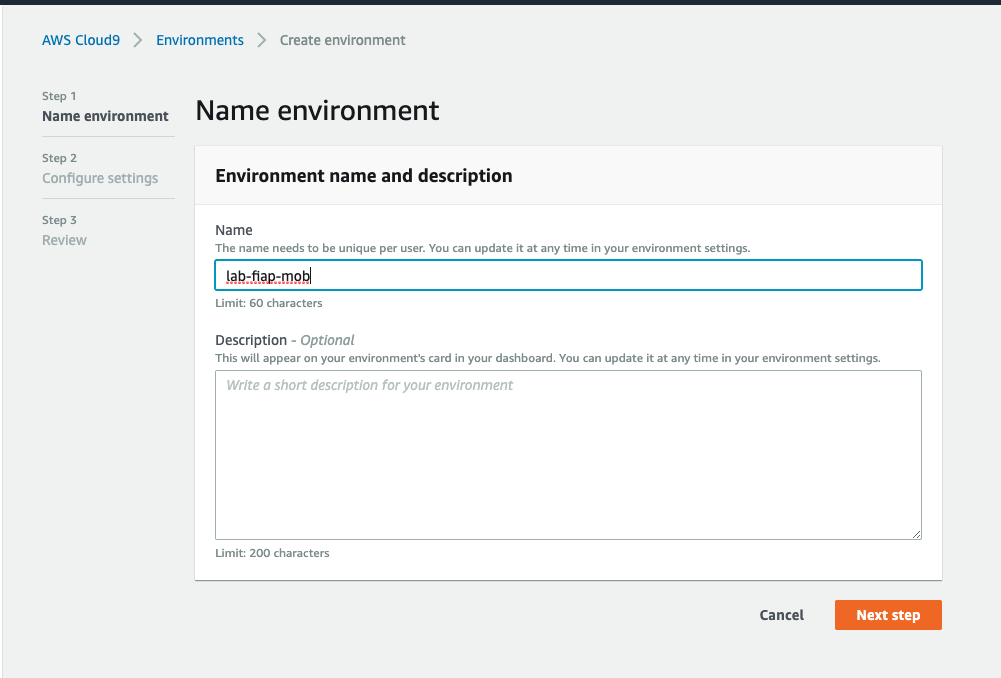
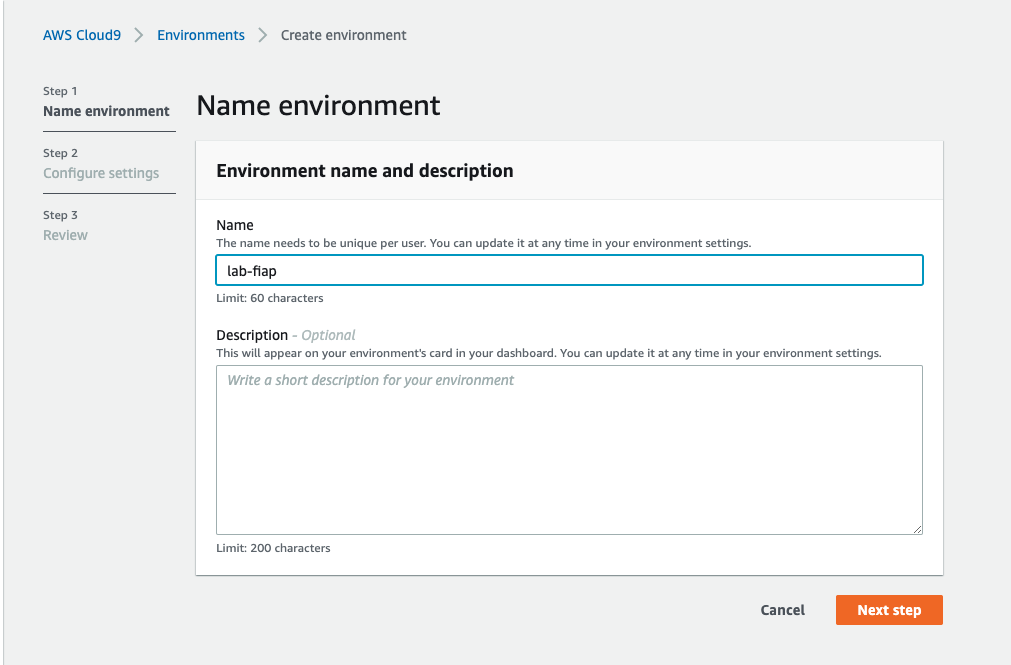
setup completo

diff --git a/00-Setup-e-configuracao/README.md b/00-Setup-e-configuracao/README.md
@@ -36,14 +36,14 @@ Você irá utilizar 3 ferramentas para desenvolver os laboratorios:
 1. Baixe e instale o Postman em seu computador utilizando o link: [Postman Download](https://www.postman.com/downloads/)
 
 ### Cloud 9
- 1. Abra o console da AWS e va para o serviço `Cloud 9`.
+ 1. Abra o console da AWS e va para o serviço `Cloud 9` através da barra de pesquisas.
    ![img/acharcloud9.png](img/acharcloud9.png)
 1. garanta que a região que esta utilizando é `us-east-1/ Norte da Virgínia`. Você consegue ver isso no canto superior direiro da tela.
     ![img/regiao.png](img/regiao.png)
  2. Clique em `create environment`.
  3. Coloque o nome `lab-fiap` e avance.
  ![img/nomelab.png](img/nomelab.png)
- 5. Deixe as configurações como na imagem a seguir. Se atente ao tipo da maquina que deve ser t2.medium:
+ 5. Deixe as configurações como na imagem a seguir. Se atente ao tipo da maquina que deve ser `t2.medium` e o sistema operacional `Ubuntu Server 18.04 LTS`:
 ![img/config.png](img/config.png)
  6. Caso os parametros estejam como na imagem a seguir clique em `Create Environment`
    ![img/review.png](img/review.png)
@@ -55,27 +55,10 @@ Você irá utilizar 3 ferramentas para desenvolver os laboratorios:
    ![img/bash.png](img/bash.png)
 10. Execute o comando `npm install -g serverless` para instalar o serverless framework.
     ![img/installserverless.png](img/installserverless.png)
-11. Execute o comando `sudo apt  install jq -y` para instalar o software que irá nos ajudar a ler e manipular Jsons no terminal
+11. Execute o comando `sudo apt  install jq -y` para instalar o software que irá nos ajudar a ler e manipular Jsons no terminal. Caso esse comando de erro, aguarde 3 minutos para o sistema terminar a preparação inicial.
 12. Execute o comando `npm install -g c9` para baixar a extenãp que ajudará o Cloud9 a lidar melhor com o como abrir arquivos no IDE.
-13. Execute o comando `git clone https://github.com/vamperst/FIAP-CICD-DevSecOps.git` para clonar o repositório com os exercicios.
-14. Execute o comando `cd FIAP-CICD-DevSecOps/` para entrar na pasta criada pelo git
+13. Execute o comando `git clone https://github.com/vamperst/fiap-gerenciamento-de-apis.git` para clonar o repositório com os exercicios.
+14. Execute o comando `cd fiap-gerenciamento-de-apis/` para entrar na pasta criada pelo git
 15. Execute o comando `cd 00-Setup-e-configuracao` para entrar na pasta com os scripts de Configuração.
 16. Precisamos aumentar o tamanho do volume(HD) do cloud9. Para isso execute o comando  `sh resize.sh`
    ![img/resizeEBS](img/resizeEBS.png)
-16. Para facilitar a criação e updates manualmente das stacks do cloudformation vamos utilizar o plugin 'cfn-create-or-update'. Para instalr utilize o comando `npm install -g cfn-create-or-update`
-17. Para instalar o docker execute o comando `curl -sSL https://get.docker.com/ | sudo sh`
-18. O docker daemon precisa de permissão para aceitar comandos do usuario padrão. O comando `sudo usermod -aG docker ubuntu` adiciona o usuário principal da mauqina a utilizar o Docker.
-19. Agora vamos criar o Bucket S3 que irá receber todos os arquivos de configuração durante o curso. Para tal, abra uma aba do console AWS. Clique em serviços no canto superior esquerdo e pesquisa e clique em S3.
-20. Clique em 'Criar bucket'
-    ![](img/s3CreateBucket.png)
-21. De o nome do bucket de `base-config-<SEU RM>` e clique em `Criar`.
-    ![](img/createBucket.png)
-22. Em outra aba do AWS Academy onde acessa a conta da AWS e no canto superior direito clique em 'AWS Details' e clique em 'show' nos campos de SSH Key.
-![](img/academy-pem-1.png)
-23. Copie o conteudo da chave privada para a area de transferência(Ctrl+C).
-    ![](img/academy-pem-2.png)
-24. Execute o comando `c9 open ~/.ssh/vockey.pem` para criar o arquivo que utilizaremos como chave para entrar nas instancias. 
-25. Cole o conteudo da chave privada copiado nos passos anteriores e cole no ide no aquivo vockey.pem e salve utilizando "ctrl+S".
-26.  Execute o comando `chmod 400 ~/.ssh/vockey.pem` para que a chave tenha a permissão correta.
-27.  Execute o comando `aws s3 cp ~/.ssh/vockey.pem s3://base-config-<SEU RM>/instance-need/keys/` para copiar a chave que criou para o seu bucket de configurações do S3.
-28. Execute o comando a seguir para instalar o terraform `sh installTerraform.sh`
